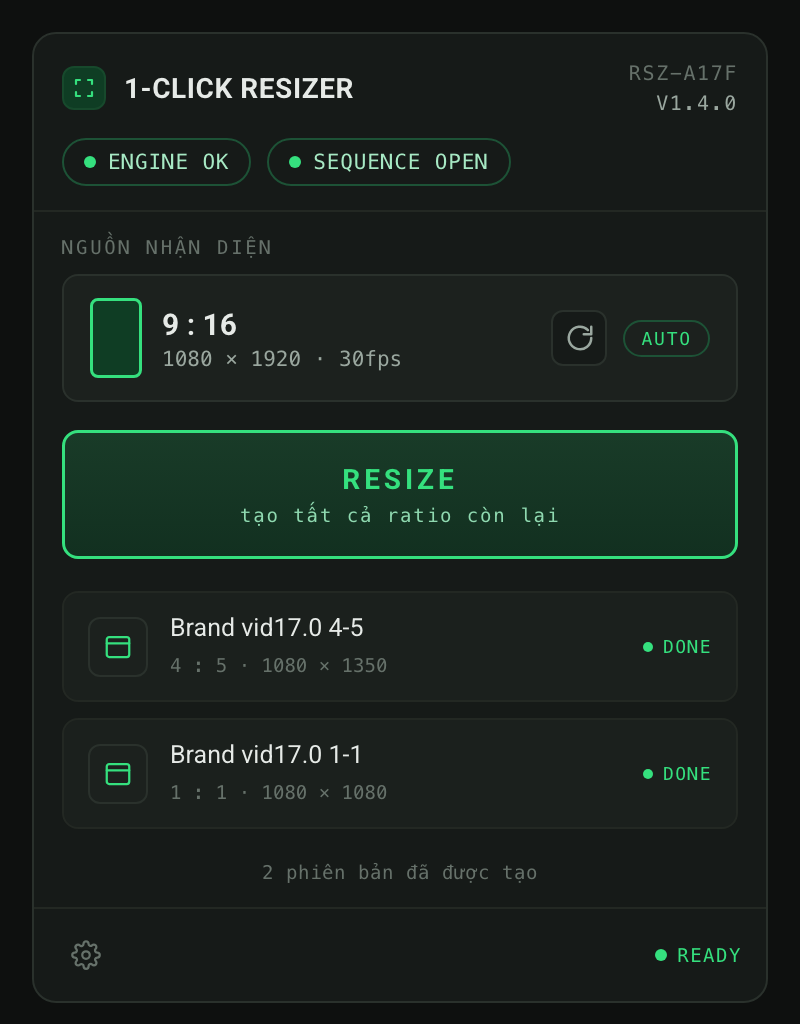
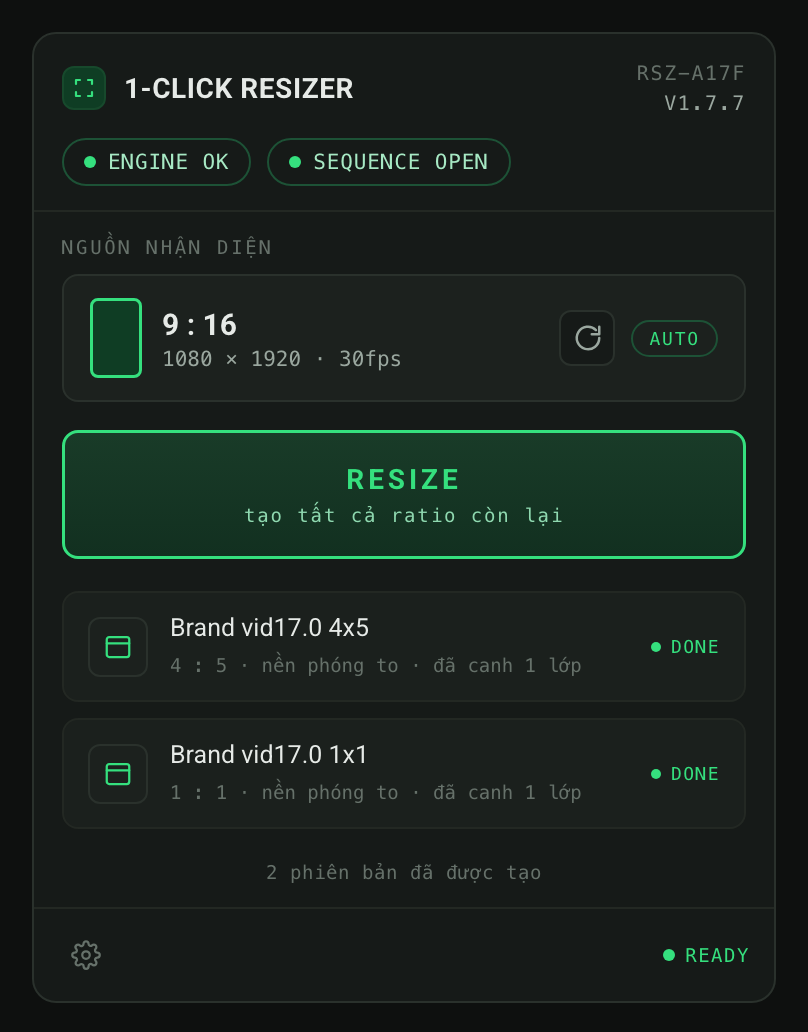
hero image tự cập nhật theo version (build-hero.sh) + demo panel v1.7.x, tên 4x5/1x1 (v1.7.7)

diff --git a/media/_shot.html b/media/_shot.html
@@ -4,6 +4,12 @@
   <meta charset="utf-8" />
   <title>1-Click Resizer</title>
   <link rel="stylesheet" href="../com.oneclickresize.panel/css/style.css" />
+  <style>
+    /* Hero render only: pin the demo to a narrow panel width so headless
+       Chrome renders it fully (its layout viewport otherwise defaults wide). */
+    html, body { background: #0E100F; margin: 0; }
+    .wrap { width: 404px; min-height: 0; padding: 16px; }
+  </style>
 </head>
 <body>
   <div class="wrap">
@@ -16,7 +22,7 @@
             </span>
             1-CLICK RESIZER
           </div>
-          <div class="ver">RSZ-A17F<br><b>V1.4.0</b></div>
+          <div class="ver">RSZ-A17F<br><b>V1.7.7</b></div>
         </div>
 
         <div class="pills">
@@ -49,8 +55,8 @@
         </div>
 
         <div class="outputs">
-          <div class="orow show"><span class="oico"><svg width="15" height="15" viewBox="0 0 24 24" fill="none" stroke="currentColor" stroke-width="1.8" stroke-linecap="round" stroke-linejoin="round"><rect x="3" y="4" width="18" height="16" rx="2"/><path d="M3 9h18"/></svg></span><div class="oinfo"><b>EllaFlow vid17.0 4-5</b><span>4 : 5 · 1080 × 1350</span></div><span class="ostatus"><span class="dot"></span>DONE</span></div>
-          <div class="orow show"><span class="oico"><svg width="15" height="15" viewBox="0 0 24 24" fill="none" stroke="currentColor" stroke-width="1.8" stroke-linecap="round" stroke-linejoin="round"><rect x="3" y="4" width="18" height="16" rx="2"/><path d="M3 9h18"/></svg></span><div class="oinfo"><b>EllaFlow vid17.0 1-1</b><span>1 : 1 · 1080 × 1080</span></div><span class="ostatus"><span class="dot"></span>DONE</span></div>
+          <div class="orow show"><span class="oico"><svg width="15" height="15" viewBox="0 0 24 24" fill="none" stroke="currentColor" stroke-width="1.8" stroke-linecap="round" stroke-linejoin="round"><rect x="3" y="4" width="18" height="16" rx="2"/><path d="M3 9h18"/></svg></span><div class="oinfo"><b>Brand vid17.0 4x5</b><span>4 : 5 · nền phóng to · đã canh 1 lớp</span></div><span class="ostatus"><span class="dot"></span>DONE</span></div>
+          <div class="orow show"><span class="oico"><svg width="15" height="15" viewBox="0 0 24 24" fill="none" stroke="currentColor" stroke-width="1.8" stroke-linecap="round" stroke-linejoin="round"><rect x="3" y="4" width="18" height="16" rx="2"/><path d="M3 9h18"/></svg></span><div class="oinfo"><b>Brand vid17.0 1x1</b><span>1 : 1 · nền phóng to · đã canh 1 lớp</span></div><span class="ostatus"><span class="dot"></span>DONE</span></div>
         </div>
         <div class="hint">2 phiên bản đã được tạo</div>
 

diff --git a/com.oneclickresize.panel/index.html b/com.oneclickresize.panel/index.html
@@ -25,7 +25,7 @@
             </span>
             1-CLICK RESIZER
           </div>
-          <div class="ver">RSZ-A17F<br><b>V1.7.6</b></div>
+          <div class="ver">RSZ-A17F<br><b>V1.7.7</b></div>
         </div>
 
         <div class="pills">